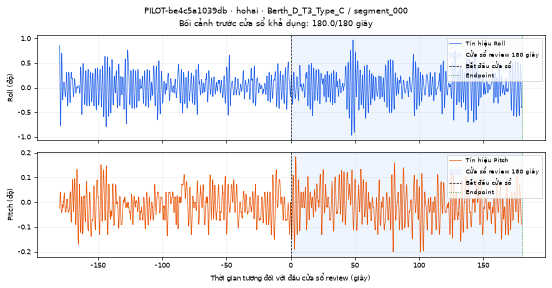
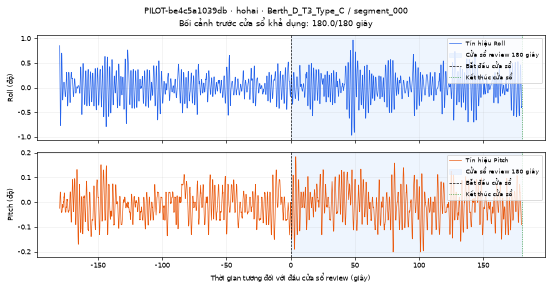
docs(labeling): document human annotation pilot

Changed region(s): [[0.8007, 0.6562, 0.9855, 0.7188], [0.8007, 0.25, 0.9855, 0.3125]]

diff --git a/ml/reports/labeling/training_readiness_assessment.md b/ml/reports/labeling/training_readiness_assessment.md
@@ -1,43 +1,25 @@
-# Đánh giá sẵn sàng cho supervised training
+# Đánh giá mức sẵn sàng huấn luyện
 
-## Kết luận
+## Quyết định hiện tại
 
-**Chưa đủ nhãn độc lập để huấn luyện supervised bốn lớp.** Hiện có 0 nhãn hazard VERIFIED, 0 quan sát HUMAN_REVIEWED và 0 quyết định reviewer thực tế trong pilot.
+**Chưa đủ điều kiện huấn luyện Machine Learning có giám sát cho bốn lớp hazard.** Hiện chưa có quyết định review của con người hoặc nhãn tham chiếu external. 92 cửa sổ review không phải 92 quan sát độc lập; queue phủ 23 session.
 
-| Lớp | VERIFIED evidence | HUMAN_REVIEWED phenotype | Proxy | Session có reference vận hành độc lập |
-|---|---:|---:|---:|---:|
-| `NORMAL` | 0 | 0 | 0 | 0 |
-| `HIGH_ROLL` | 0 | 0 | 0 | 0 |
-| `PERSISTENT_OFFSET` | 0 | 0 | 0 | 0 |
-| `AMPLITUDE_GROWTH` | 0 | 0 | 0 | 0 |
+| Lựa chọn | Trạng thái | Bằng chứng hiện có | Bằng chứng còn thiếu / rủi ro |
+|---|---|---|---|
+| Huấn luyện có giám sát bốn lớp hazard đã xác minh | CHƯA ĐỦ | 2.864 cửa sổ đủ 23 đặc trưng; 23 session trong pilot | 0 nhãn VERIFIED; cần tham chiếu sự kiện/điều kiện vận hành và miền NORMAL; chưa đo độ phủ lớp; có nguy cơ rò rỉ do cửa sổ chồng lấn và khác biệt quy mô vật lý |
+| Nghiên cứu phân loại phenotype chuyển động quan sát được | CHƯA SẴN SÀNG HUẤN LUYỆN | Có chuỗi thời gian Roll/Pitch; pilot 29 hồ sơ phủ 23 session | 0 quyết định reviewer; cần ít nhất hai reviewer đánh giá chồng lặp để đo mức nhất trí; phenotype không đồng nghĩa hazard |
+| Thử nghiệm kỹ thuật bằng proxy rule (nhãn suy ra theo quy tắc) | CHỈ CÓ THỂ LÀM SAU KHI DUYỆT RULE | Có cửa sổ feature và provenance | Ngưỡng mô phỏng chưa phải giới hạn hazard; nhãn vòng lặp nếu mô hình dùng cùng đặc trưng; chỉ báo cáo mức khớp với proxy, không tuyên bố an toàn |
+| Thu thập thêm dữ liệu có nhãn độc lập | KHUYẾN NGHỊ | Nguồn hiện tại chưa có nhãn tham chiếu external | Cần nhật ký vận hành/sự kiện có timestamp, miền NORMAL, scale/ngữ cảnh và xác minh chuyên gia |
 
-Human-reviewed phenotype là evidence về chuyển động quan sát được; không tự xác nhận tình trạng nguy hiểm. Các class count không chứng minh lớp vật lý vắng mặt.
+## Điều kiện trước huấn luyện có giám sát
 
-## Rủi ro phương pháp
+1. Đánh giá 29 mẫu pilot; lưu reviewer ID, bằng chứng, ghi chú, thời điểm và audit trail.
+2. Có ít nhất hai reviewer độc lập cùng đánh giá tập con, sau đó báo mức nhất trí và trường hợp bất đồng.
+3. Xác minh hazard bằng tham chiếu vận hành độc lập; định nghĩa NORMAL bằng miền hoạt động dương tính đã được chấp thuận.
+4. Xử lý phenotype chồng lấn và cửa sổ NEEDS_DISCUSSION trước khi tạo nhãn huấn luyện.
+5. Chia tập theo session/run/vessel, không chia ngẫu nhiên các cửa sổ chồng lấn.
+6. Giữ tập kiểm thử độc lập với rule/feature đã định nghĩa proxy; phân tích riêng theo quy mô và nguồn dữ liệu.
 
-1. **Ít phiên độc lập:** Seafar 1 session, Hohai 21 session mô hình, Southampton 1 run 180 giây. 92 mẫu là cửa sổ chọn review, không phải 92 điều kiện độc lập.
-2. **Overlap leakage:** stride 10 giây trên cửa sổ 180 giây tương đương khoảng 94,4% overlap giữa cửa sổ kề. Split ngẫu nhiên sẽ rò rỉ gần như cùng tín hiệu giữa train/test.
-3. **Circular labeling:** nếu proxy dựa trên roll std/mean/RMS slope rồi model học các feature đó, kết quả chỉ cho thấy model tái tạo rule.
-4. **Khác scale:** Hohai/Southampton là mô hình thử nghiệm; không gộp chung với tàu thật như một ngưỡng hazard phổ quát.
-5. **NORMAL chưa có envelope:** thiếu baseline/operating envelope được chấp nhận; không suy NORMAL từ không phát hiện bất thường.
-6. **Reliability:** chưa có hai reviewer đánh giá cùng sample; không báo agreement/kappa giả.
+## Giải thích kỹ thuật phục vụ vấn đáp cá nhân
 
-## Điều kiện trước khi training
-
-- Thu thập external event/hazard annotations với timestamp, vessel/scale, operating state và nguồn xác minh.
-- Xây dựng operating envelope dương tính cho NORMAL theo từng nguồn/phạm vi tàu; có người phụ trách phê duyệt.
-- Đánh giá pilot mù tối thiểu bởi hai reviewer trên một tập con chồng lặp; báo agreement riêng cho primary decision và phenotype flags.
-- Chốt cách phân biệt observed phenotype với verified operational hazard; xử lý các trường hợp nhiều cờ bằng `REVIEW_REQUIRED` hoặc chính sách đã được duyệt.
-- Định nghĩa split theo session/run/vessel; không chia cửa sổ overlap ngẫu nhiên.
-- Đánh giá subgroup và source-scale riêng; không đưa dataset/session identity vào feature vector.
-- Giữ test độc lập với rule/feature đã dùng để gán proxy; không trình bày rule agreement là safety validation.
-
-## Lựa chọn bước tiếp theo
-
-1. **Khuyến nghị chính — additional data acquisition:** thu thập tàu thật có operational event logs và được chuyên gia xác nhận; đồng thời thu thập các giai đoạn hoạt động bình thường có envelope rõ.
-2. **Reduced-scope study:** đánh giá chất lượng quan sát phenotype Roll/Pitch trên pilot, chưa gọi hazard classification và chưa khái quát giữa scale.
-3. **Proxy-label proof of concept (chỉ nếu cần minh họa kỹ thuật):** rule/threshold phải có version và nguồn, split theo session, báo kết quả là agreement với proxy và nêu circularity; không dùng làm bằng chứng an toàn.
-
-## Giải thích kỹ thuật phục vụ vấn đáp
-
-**Vì sao chưa train?** Không có nhãn operational hazard hoặc NORMAL independently verified. **Vì sao không dùng 92 hàng như 92 mẫu độc lập?** Chúng chồng lấn thời gian và tập trung trong 23 session nguồn. **Có thể làm gì thay thế?** Mở rộng thu thập có event reference; hoặc giới hạn bài toán thành quan sát phenotype có reviewer và không tuyên bố hazard. **Giới hạn?** Mọi kết luận chỉ thuộc các nguồn và session hiện có; chưa kiểm chứng tính đại diện vận hành.
+Không thể suy mức sẵn sàng từ số cửa sổ đơn thuần: các cửa sổ chồng lấn mạnh và tập trung trong số session hữu hạn. Human review có thể xác nhận phenotype chuyển động quan sát được nhưng không thay thế nhãn tham chiếu vận hành độc lập. Bước phù hợp hiện nay là hoàn thành pilot, đo mức nhất trí giữa reviewer và thu thập nhãn sự kiện/điều kiện vận hành. Sau đó mới quyết định nghiên cứu phenotype, thử nghiệm proxy có giới hạn hay huấn luyện nhận diện hazard.

diff --git a/ml/reports/labeling/human_annotation_quality_report.md b/ml/reports/labeling/human_annotation_quality_report.md
@@ -1,0 +1,104 @@
+# Đánh giá chất lượng Human Annotation
+
+## Kết quả hiện trạng
+
+Review queue giữ nguyên **92 record**, gồm **29 mẫu pilot / 23 session** và **63 mẫu mở rộng**. Ledger hiện có **0 quyết định**, trên **0 review ID**; còn **92 record chưa review**.
+
+Đã có 0 nhãn external VERIFIED, 0 phenotype HUMAN_REVIEWED và 0 proxy. Số liệu bằng 0 phản ánh artifact hiện có, không chứng minh trạng thái vật lý không xuất hiện.
+
+## Độ phủ theo nguồn/session
+
+| Nguồn | Queue | Session | Đã review | Chưa review | Pilot record | Pilot session | Extended record |
+|---|---:|---:|---:|---:|---:|---:|---:|
+| Hohai | 84 | 21 | 0 | 84 | 21 | 21 | 63 |
+| Seafar | 4 | 1 | 0 | 4 | 4 | 1 | 0 |
+| Southampton | 4 | 1 | 0 | 4 | 4 | 1 | 0 |
+
+### Độ phủ theo từng session độc lập
+
+| Nguồn | Session | Queue | Đã review | Chưa review | Pilot | Extended | Lớp ACCEPTED |
+|---|---|---:|---:|---:|---:|---:|---|
+| Hohai | `Berth_B_T7_Type_A` | 4 | 0 | 4 | 1 | 3 | Chưa có quyết định lớp |
+| Hohai | `Berth_B_T8_Type_A` | 4 | 0 | 4 | 1 | 3 | Chưa có quyết định lớp |
+| Hohai | `Berth_B_T9_Type_A` | 4 | 0 | 4 | 1 | 3 | Chưa có quyết định lớp |
+| Hohai | `Berth_C_T7_Type_A` | 4 | 0 | 4 | 1 | 3 | Chưa có quyết định lớp |
+| Hohai | `Berth_C_T8_Type_A` | 4 | 0 | 4 | 1 | 3 | Chưa có quyết định lớp |
+| Hohai | `Berth_C_T9_Type_A` | 4 | 0 | 4 | 1 | 3 | Chưa có quyết định lớp |
+| Hohai | `Berth_D_T1_Type_A` | 4 | 0 | 4 | 1 | 3 | Chưa có quyết định lớp |
+| Hohai | `Berth_D_T2_Type_A` | 4 | 0 | 4 | 1 | 3 | Chưa có quyết định lớp |
+| Hohai | `Berth_D_T3_Type_A` | 4 | 0 | 4 | 1 | 3 | Chưa có quyết định lớp |
+| Hohai | `Berth_D_T3_Type_B` | 4 | 0 | 4 | 1 | 3 | Chưa có quyết định lớp |
+| Hohai | `Berth_D_T3_Type_C` | 4 | 0 | 4 | 1 | 3 | Chưa có quyết định lớp |
+| Hohai | `Berth_D_T4_Type_A` | 4 | 0 | 4 | 1 | 3 | Chưa có quyết định lớp |
+| Hohai | `Berth_D_T5_Type_A` | 4 | 0 | 4 | 1 | 3 | Chưa có quyết định lớp |
+| Hohai | `Berth_D_T6_Type_A` | 4 | 0 | 4 | 1 | 3 | Chưa có quyết định lớp |
+| Hohai | `Berth_D_T6_Type_B` | 4 | 0 | 4 | 1 | 3 | Chưa có quyết định lớp |
+| Hohai | `Berth_D_T6_Type_C` | 4 | 0 | 4 | 1 | 3 | Chưa có quyết định lớp |
+| Hohai | `Berth_D_T7_Type_A` | 4 | 0 | 4 | 1 | 3 | Chưa có quyết định lớp |
+| Hohai | `Berth_D_T8_Type_A` | 4 | 0 | 4 | 1 | 3 | Chưa có quyết định lớp |
+| Hohai | `Berth_D_T8_Type_B` | 4 | 0 | 4 | 1 | 3 | Chưa có quyết định lớp |
+| Hohai | `Berth_D_T8_Type_C` | 4 | 0 | 4 | 1 | 3 | Chưa có quyết định lớp |
+| Hohai | `Berth_D_T9_Type_A` | 4 | 0 | 4 | 1 | 3 | Chưa có quyết định lớp |
+| Seafar | `seafar_session_001` | 4 | 0 | 4 | 4 | 0 | Chưa có quyết định lớp |
+| Southampton | `southampton_run_14` | 4 | 0 | 4 | 4 | 0 | Chưa có quyết định lớp |
+
+## Phân bố lớp, phenotype và bằng chứng
+
+### Quyết định ACCEPTED theo lớp
+
+| Lớp | Số quyết định |
+|---|---:|
+| `NORMAL` | 0 |
+| `HIGH_ROLL` | 0 |
+| `PERSISTENT_OFFSET` | 0 |
+| `AMPLITUDE_GROWTH` | 0 |
+| `REVIEW_REQUIRED` | 0 |
+| `UNLABELED` | 0 |
+
+### Lớp ACCEPTED theo nguồn
+
+| Nguồn | NORMAL | HIGH_ROLL | PERSISTENT_OFFSET | AMPLITUDE_GROWTH | REVIEW_REQUIRED | UNLABELED |
+|---|---:|---:|---:|---:|---:|---:|
+| Hohai | 0 | 0 | 0 | 0 | 0 | 0 |
+| Seafar | 0 | 0 | 0 | 0 | 0 | 0 |
+| Southampton | 0 | 0 | 0 | 0 | 0 | 0 |
+
+### Phenotype flags và evidence category
+
+| Nhóm | Giá trị | Số record ACCEPTED |
+|---|---|---:|
+| Phenotype | `HIGH_ROLL` | 0 |
+| Phenotype | `PERSISTENT_OFFSET` | 0 |
+| Phenotype | `AMPLITUDE_GROWTH` | 0 |
+| Evidence | `OBSERVED_MOTION_PHENOTYPE` | 0 |
+| Evidence | `VERIFIED_OPERATIONAL_HAZARD` | 0 |
+| Evidence | `VERIFIED_NORMAL_ENVELOPE` | 0 |
+| Evidence | `PROXY_RULE` | 0 |
+| Evidence | `UNVERIFIED` | 0 |
+
+Mẫu mơ hồ hoặc cần thảo luận: **0**; review ID có bất đồng: **0**.
+
+## Bằng chứng độc lập theo nguồn
+
+- **Seafar:** telemetry từ một session tàu thật; audit hiện có không ghi nhận event, incident hoặc operating-state annotation độc lập. Offset Roll không tự xác nhận hazard hay NORMAL.
+- **Hohai:** 21 session mô hình thử nghiệm; tên sheet/configuration không phải nhãn. Workbook không kèm event/hazard labels; sampling 50 Hz là metadata thí nghiệm, không phải evidence vận hành.
+- **Southampton:** điều kiện sóng trong Test Plan là provenance của thí nghiệm; 4 mẫu pilot cùng thuộc Run 14 và không có hazard reference độc lập.
+- Chưa thấy operating envelope NORMAL được chấp thuận cho bất kỳ nguồn nào. Xem [kiểm kê evidence trước đó](label_evidence_report.md) để biết nguồn tài liệu đã kiểm tra.
+
+## Độ độc lập của đánh giá và mức nhất trí
+
+Trong toàn bộ feature windows, stride 10 giây trên cửa sổ 180 giây nghĩa là hai cửa sổ kề chia sẻ 170 giây (94,4%). Riêng review queue thưa có 3 cặp giao nhau trên 133 cặp trong cùng segment (2.3%); 4 record có tham gia giao nhau. Pilot 29 mẫu có 3 cặp giao nhau trên 7 cặp so sánh, liên quan 4 mẫu. Các cặp này tập trung ở Southampton Run 14; hiện vẫn có 0 quyết định human review. Cửa sổ overlap là quan sát phụ thuộc, không phải session độc lập.
+
+Chưa tính mức nhất trí giữa reviewer: Chưa có ít nhất hai reviewer với quyết định ACCEPTED trên cùng sample.
+
+## Rủi ro và giới hạn
+
+- Không có verified external reference hoặc human decisions tại thời điểm sinh báo cáo này.
+- Human review dựa trên Roll/Pitch có thể ghi nhận phenotype; không chứng minh operating hazard hay normal operating envelope.
+- Hohai và Southampton là nguồn model-scale; không gộp ngưỡng với Seafar như cùng miền vật lý.
+- Cửa sổ 180 giây stride 10 giây overlap cao; mọi đánh giá mô hình phải chia theo session/run/vessel, không random theo window.
+- Nếu nhãn được định nghĩa từ cùng đặc trưng Roll dùng huấn luyện, kết quả dễ vòng lặp; đồng thuận với proxy không phải kiểm định an toàn.
+
+## Giải thích kỹ thuật phục vụ vấn đáp cá nhân
+
+**Độ phủ** tính theo review ID và session, không xem mỗi cửa sổ feature là mẫu độc lập. **Tính mơ hồ** giữ đồng thời các phenotype flags và ghi lý do, không ép về một lớp. **Mức nhất trí** chỉ tính khi có ít nhất hai reviewer thật cùng đánh giá một mẫu. **Kết quả hiện tại** là chưa có reviewer, nên chưa lớp nào được xác nhận; điều này không đồng nghĩa chuyển động bất thường không tồn tại.

diff --git a/ml/reports/labeling/human_review_execution_guide.md b/ml/reports/labeling/human_review_execution_guide.md
@@ -1,0 +1,65 @@
+# Hướng dẫn thực hiện Human Review
+
+## Chuẩn bị artifact review
+
+Từ thư mục gốc repository, kích hoạt môi trường dự án rồi chạy:
+
+```bash
+python -m ml.labeling.human_review_workflow --prepare-batches
+```
+
+Lệnh tạo hai batch dưới `ml/data/labels/annotation_pilot/batches/` mà không thay đổi queue gốc:
+
+- `pilot_29.csv`: đủ 23 session; Seafar 4, Hohai 21 (mỗi session một đại diện), Southampton 4.
+- `extended_63.csv`: 63 cửa sổ Hohai còn lại.
+
+Quy tắc chọn Hohai: sắp theo endpoint, start và review ID; lấy hạng trung vị thấp (lower median), xác định bởi `floor((n-1)/2)`. Cách này chọn cửa sổ theo thời gian, không dùng nhãn hay giá trị feature để ưu tiên lớp. Các batch chỉ là bản sao tham chiếu, không chứa annotation.
+
+## Cài môi trường
+
+Từ repository root, dùng Python 3.14 theo môi trường M2:
+
+```bash
+python3.14 -m venv .venv
+source .venv/bin/activate
+python -m pip install -r ml/labeling/requirements.txt
+```
+
+## Mở giao diện và thực hiện review
+
+```bash
+python -m streamlit run ml/labeling/review_app.py
+```
+
+Trong trình duyệt trên máy local:
+
+1. Chọn batch pilot 29 hoặc batch mở rộng 63.
+2. Nhập `reviewer_id` cá nhân; không dùng ID chung cho nhiều người.
+3. Chọn `review_id`; kiểm tra dataset/session/segment/window, biểu đồ Roll/Pitch, bối cảnh trước cửa sổ, cờ chất lượng, metadata và bảng 23 angle features kèm validity.
+4. Đánh dấu từng phenotype là chưa đánh giá/không quan sát/quan sát; chọn evidence category, quyết định, evidence reference, ghi chú và ambiguity reason khi cần.
+5. Nhấn lưu. Hệ thống kiểm tra schema, provenance, category-transition và trùng cặp mẫu/reviewer. Gửi cùng mẫu bởi reviewer khác được giữ như một đánh giá độc lập.
+
+Không chọn `NORMAL` nếu không có operating envelope dương tính và evidence reference. `OBSERVED_MOTION_PHENOTYPE` chỉ là quan sát chuyển động; không xác nhận hazard. `VERIFIED_OPERATIONAL_HAZARD` và `VERIFIED_NORMAL_ENVELOPE` bắt buộc có tham chiếu external độc lập.
+
+## Lưu quyết định và audit trail
+
+Ledger hiện tại được ghi tại `ml/data/labels/annotation_pilot/review_decisions.csv`; mỗi hàng có `review_id`, `decision_id`, reviewer, annotation schema version, decision, phenotype flags, evidence, timestamp UTC và trạng thái. Audit append-only nằm tại `ml/data/labels/annotation_pilot/review_audit.jsonl`. Cả hai tệp cùng batch/plots bị `.gitignore` loại khỏi Git.
+
+Cùng reviewer không thể gửi trùng cùng review ID; giao diện từ chối ghi đè. Nếu phát hiện lỗi trong quyết định, giữ nguyên file audit hiện tại và liên hệ người phụ trách để thực hiện quy trình sửa đổi có version riêng; không xóa/sửa dòng cũ bằng spreadsheet.
+
+## Tái tạo báo cáo và kiểm thử
+
+```bash
+python -m ml.labeling.human_review_workflow --refresh-reports
+python -m pytest ml/labeling/tests ml/features/tests ml/preprocessing/tests ml/audit -q
+```
+
+Các report Markdown nhỏ được lưu trong `ml/reports/labeling/`. Không cần backend, MQTT hoặc kết nối ESP32.
+
+## Giải thích kỹ thuật phục vụ vấn đáp cá nhân
+
+- **Em đã làm gì?** Tạo batch xác định, giao diện xem signal/feature và lưu annotation có provenance.
+- **Vì sao giữ reviewer ID và audit JSONL?** Để truy về người đưa quyết định và giữ lịch sử append-only; CSV là ledger dễ đọc để phân tích.
+- **Tại sao có ba lớp evidence?** Quan sát phenotype, hazard verified và dữ liệu chưa đủ bằng chứng có ý nghĩa khác nhau; không thể xem hình Roll/Pitch là ground truth an toàn.
+- **Kết quả thực tế?** Hiện batch có 29+63 record phủ 23 session, nhưng 0 quyết định thật; hệ thống không tự gán nhãn.
+- **Rủi ro còn lại?** Cửa sổ trùng lặp phụ thuộc thời gian; review phải blind với `queue_suggested_label` khi phù hợp và split theo session.

diff --git a/ml/reports/labeling/annotation_pilot_report.md b/ml/reports/labeling/annotation_pilot_report.md
@@ -89,7 +89,7 @@ Không diễn giải đồng thuận của reviewer thành độ chính xác haz
 
 ## Kiểm thử và kiểm chứng
 
-Bài kiểm thử tự động gần nhất: **70 passed in 2.69s**; exit code `0`. Lệnh: `python -m pytest ml/labeling/tests ml/features/tests ml/preprocessing/tests ml/audit -q`. Kiểm thử kiểm tra schema, chống thăng cấp nhãn chưa review, provenance, identity/window matching, ranh giới session, revision audit và tính tái lập; fixture tổng hợp chỉ dùng trong unit test.
+Bài kiểm thử tự động gần nhất: **76 passed in 2.14s**; exit code `0`. Lệnh: `python -m pytest ml/labeling/tests ml/features/tests ml/preprocessing/tests ml/audit -q`. Kiểm thử kiểm tra schema, chống thăng cấp nhãn chưa review, provenance, identity/window matching, ranh giới session, revision audit và tính tái lập; fixture tổng hợp chỉ dùng trong unit test.
 
 ## Chống bias và leakage
 
